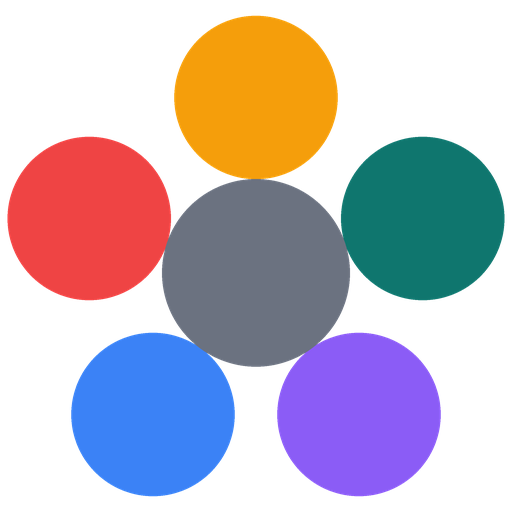
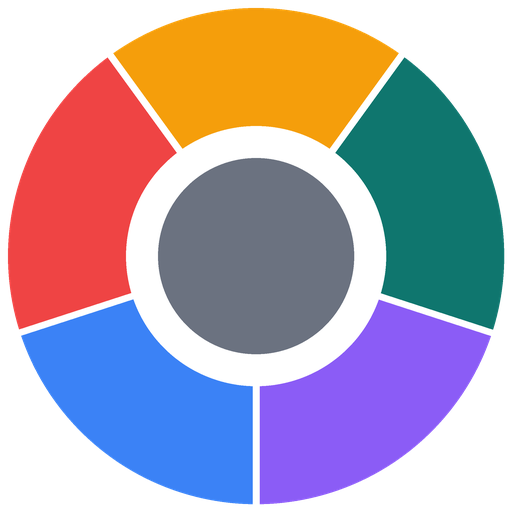
Grow Panel v1.98: logotipo nuevo (trozos de colores como Chrome, con círculo blanco)
- Icono, favicon, logo de la cabecera, sello «with Grow Panel», botón de las apps y SELLO.md

Changed region(s): [[0.0, 0.0, 1.0, 1.0]]

diff --git a/index.html b/index.html
@@ -296,7 +296,7 @@ body.embed .top,body.embed .guia,body.embed details,body.embed .pie,body.embed .
 </style>
 </head>
 <body>
-<div class="titulo-app" aria-hidden="true"><span class="flor"><svg viewBox="0 0 512 512"><circle cx="256" cy="107.5" r="69.1" fill="#f59e0b"/><circle cx="397.2" cy="210.1" r="69.1" fill="#0f766e"/><circle cx="343.3" cy="376.1" r="69.1" fill="#8b5cf6"/><circle cx="168.7" cy="376.1" r="69.1" fill="#3b82f6"/><circle cx="114.8" cy="210.1" r="69.1" fill="#ef4444"/><circle cx="256" cy="256" r="79.4" fill="#6b7280"/></svg></span>Grow Panel</div>
+<div class="titulo-app" aria-hidden="true"><span class="flor"><svg viewBox="0 0 512 512"><path d="M256 256L110.2 55.4A248 248 0 0 1 401.8 55.4Z" fill="#f59e0b"/><path d="M256 256L401.8 55.4A248 248 0 0 1 491.9 332.6Z" fill="#0f766e"/><path d="M256 256L491.9 332.6A248 248 0 0 1 256.0 504.0Z" fill="#8b5cf6"/><path d="M256 256L256.0 504.0A248 248 0 0 1 20.1 332.6Z" fill="#3b82f6"/><path d="M256 256L20.1 332.6A248 248 0 0 1 110.2 55.4Z" fill="#ef4444"/><path d="M256 256L109.1 53.7" stroke="#fff" stroke-width="7" fill="none"/><path d="M256 256L402.9 53.7" stroke="#fff" stroke-width="7" fill="none"/><path d="M256 256L493.8 333.3" stroke="#fff" stroke-width="7" fill="none"/><path d="M256 256L256.0 506.0" stroke="#fff" stroke-width="7" fill="none"/><path d="M256 256L18.2 333.3" stroke="#fff" stroke-width="7" fill="none"/><circle cx="256" cy="256" r="130" fill="#fff"/><circle cx="256" cy="256" r="98" fill="#6b7280"/></svg></span>Grow Panel</div>
 <main>
   <div class="top">
     <h1 class="oculto">Grow Panel</h1>
@@ -331,7 +331,7 @@ body.embed .top,body.embed .guia,body.embed details,body.embed .pie,body.embed .
 
   <div class="visor" id="visor" hidden>
     <div class="visor-barra">
-      <button class="visor-volver" id="visor-volver" type="button"><svg viewBox="0 0 512 512" aria-hidden="true"><circle cx="256" cy="107.5" r="69.1" fill="#f59e0b"/><circle cx="397.2" cy="210.1" r="69.1" fill="#0f766e"/><circle cx="343.3" cy="376.1" r="69.1" fill="#8b5cf6"/><circle cx="168.7" cy="376.1" r="69.1" fill="#3b82f6"/><circle cx="114.8" cy="210.1" r="69.1" fill="#ef4444"/><circle cx="256" cy="256" r="79.4" fill="#6b7280"/></svg>← Volver a Grow Panel</button>
+      <button class="visor-volver" id="visor-volver" type="button"><svg viewBox="0 0 512 512" aria-hidden="true"><path d="M256 256L110.2 55.4A248 248 0 0 1 401.8 55.4Z" fill="#f59e0b"/><path d="M256 256L401.8 55.4A248 248 0 0 1 491.9 332.6Z" fill="#0f766e"/><path d="M256 256L491.9 332.6A248 248 0 0 1 256.0 504.0Z" fill="#8b5cf6"/><path d="M256 256L256.0 504.0A248 248 0 0 1 20.1 332.6Z" fill="#3b82f6"/><path d="M256 256L20.1 332.6A248 248 0 0 1 110.2 55.4Z" fill="#ef4444"/><path d="M256 256L109.1 53.7" stroke="#fff" stroke-width="7" fill="none"/><path d="M256 256L402.9 53.7" stroke="#fff" stroke-width="7" fill="none"/><path d="M256 256L493.8 333.3" stroke="#fff" stroke-width="7" fill="none"/><path d="M256 256L256.0 506.0" stroke="#fff" stroke-width="7" fill="none"/><path d="M256 256L18.2 333.3" stroke="#fff" stroke-width="7" fill="none"/><circle cx="256" cy="256" r="130" fill="#fff"/><circle cx="256" cy="256" r="98" fill="#6b7280"/></svg>← Volver a Grow Panel</button>
       <span class="visor-nombre" id="visor-nombre"></span>
     </div>
     <iframe class="visor-marco" id="visor-marco" title="App"></iframe>
@@ -340,7 +340,7 @@ body.embed .top,body.embed .guia,body.embed details,body.embed .pie,body.embed .
 
   <div class="pie sellos">
     <a class="pi-seal" href="https://practicaintegral.club" target="_blank" rel="noopener">by Práctica Integral</a>
-    <a class="gp-seal" href="https://practicaintegral.club/grow-panel/" target="_blank" rel="noopener"><svg viewBox="0 0 512 512" aria-hidden="true"><circle cx="256" cy="107.5" r="69.1" fill="#f59e0b"/><circle cx="397.2" cy="210.1" r="69.1" fill="#0f766e"/><circle cx="343.3" cy="376.1" r="69.1" fill="#8b5cf6"/><circle cx="168.7" cy="376.1" r="69.1" fill="#3b82f6"/><circle cx="114.8" cy="210.1" r="69.1" fill="#ef4444"/><circle cx="256" cy="256" r="79.4" fill="#6b7280"/></svg>with Grow Panel</a>
+    <a class="gp-seal" href="https://practicaintegral.club/grow-panel/" target="_blank" rel="noopener"><svg viewBox="0 0 512 512" aria-hidden="true"><path d="M256 256L110.2 55.4A248 248 0 0 1 401.8 55.4Z" fill="#f59e0b"/><path d="M256 256L401.8 55.4A248 248 0 0 1 491.9 332.6Z" fill="#0f766e"/><path d="M256 256L491.9 332.6A248 248 0 0 1 256.0 504.0Z" fill="#8b5cf6"/><path d="M256 256L256.0 504.0A248 248 0 0 1 20.1 332.6Z" fill="#3b82f6"/><path d="M256 256L20.1 332.6A248 248 0 0 1 110.2 55.4Z" fill="#ef4444"/><path d="M256 256L109.1 53.7" stroke="#fff" stroke-width="7" fill="none"/><path d="M256 256L402.9 53.7" stroke="#fff" stroke-width="7" fill="none"/><path d="M256 256L493.8 333.3" stroke="#fff" stroke-width="7" fill="none"/><path d="M256 256L256.0 506.0" stroke="#fff" stroke-width="7" fill="none"/><path d="M256 256L18.2 333.3" stroke="#fff" stroke-width="7" fill="none"/><circle cx="256" cy="256" r="130" fill="#fff"/><circle cx="256" cy="256" r="98" fill="#6b7280"/></svg>with Grow Panel</a>
   </div>
 </main>
 <nav class="abajo" aria-label="Secciones de Grow Panel"><div class="abajo-in">

diff --git a/grow-panel-boton.js b/grow-panel-boton.js
@@ -161,7 +161,7 @@
     };
   }
 
-  const FLOR = '<svg viewBox="0 0 512 512" aria-hidden="true" style="width:18px;height:18px;display:block"><circle cx="256" cy="107.5" r="69.1" fill="#f59e0b"/><circle cx="397.2" cy="210.1" r="69.1" fill="#0f766e"/><circle cx="343.3" cy="376.1" r="69.1" fill="#8b5cf6"/><circle cx="168.7" cy="376.1" r="69.1" fill="#3b82f6"/><circle cx="114.8" cy="210.1" r="69.1" fill="#ef4444"/><circle cx="256" cy="256" r="79.4" fill="#6b7280"/></svg>';
+  const FLOR = '<svg viewBox="0 0 512 512" aria-hidden="true" style="width:18px;height:18px;display:block"><path d="M256 256L110.2 55.4A248 248 0 0 1 401.8 55.4Z" fill="#f59e0b"/><path d="M256 256L401.8 55.4A248 248 0 0 1 491.9 332.6Z" fill="#0f766e"/><path d="M256 256L491.9 332.6A248 248 0 0 1 256.0 504.0Z" fill="#8b5cf6"/><path d="M256 256L256.0 504.0A248 248 0 0 1 20.1 332.6Z" fill="#3b82f6"/><path d="M256 256L20.1 332.6A248 248 0 0 1 110.2 55.4Z" fill="#ef4444"/><path d="M256 256L109.1 53.7" stroke="#fff" stroke-width="7" fill="none"/><path d="M256 256L402.9 53.7" stroke="#fff" stroke-width="7" fill="none"/><path d="M256 256L493.8 333.3" stroke="#fff" stroke-width="7" fill="none"/><path d="M256 256L256.0 506.0" stroke="#fff" stroke-width="7" fill="none"/><path d="M256 256L18.2 333.3" stroke="#fff" stroke-width="7" fill="none"/><circle cx="256" cy="256" r="130" fill="#fff"/><circle cx="256" cy="256" r="98" fill="#6b7280"/></svg>';
 
   function destino() {
     const f = leer(CLAVE_F, {})[id];

diff --git a/sw.js b/sw.js
@@ -1,5 +1,5 @@
 // Service worker de Grow Panel: permite instalarlo y abrirlo sin conexión (datos siempre frescos si hay red)
-const CACHE = "growpanel-v1.97";
+const CACHE = "growpanel-v1.98";
 const BASE = ["./", "./index.html", "./grow-panel.js", "./manifest.json", "./logo.svg", "./logo-oscuro.svg",
   "./icono.svg", "./icono-192.png", "./icono-512.png", "./icono-32.png", "./icono-180.png", "./icono-gp-192.png", "./icono-gp-512.png", "./icono-gp-180.png"];
 // cache:"reload": la copia sin conexión se baja del servidor, nunca de la caché del navegador

diff --git a/grow-panel.js b/grow-panel.js
@@ -16,7 +16,7 @@
    ↑ ↓ del teclado) se cambia el orden. Se guarda en este navegador (localStorage «growpanel.orden»).
 */
 (() => {
-  const VERSION = 'v1.97';
+  const VERSION = 'v1.98';
   const BASE = new URL('.', document.currentScript ? document.currentScript.src : location.href).href;
   const ESTADOS = {
     ok: 'Todo bien', aviso: 'Con avisos', error: 'Con errores', pausa: 'En pausa', mudo: 'Sin noticias'

diff --git a/SELLO.md b/SELLO.md
@@ -10,7 +10,7 @@ Los dos se abren en una pestaña nueva. Los colores de borde y de texto se adapt
 ```html
 <div class="sellos">
   <a class="pi-seal" href="https://practicaintegral.club" target="_blank" rel="noopener">by Práctica Integral</a>
-  <a class="gp-seal" href="https://practicaintegral.club/grow-panel/" target="_blank" rel="noopener"><svg viewBox="0 0 512 512" aria-hidden="true"><circle cx="256" cy="107.5" r="69.1" fill="#f59e0b"/><circle cx="397.2" cy="210.1" r="69.1" fill="#0f766e"/><circle cx="343.3" cy="376.1" r="69.1" fill="#8b5cf6"/><circle cx="168.7" cy="376.1" r="69.1" fill="#3b82f6"/><circle cx="114.8" cy="210.1" r="69.1" fill="#ef4444"/><circle cx="256" cy="256" r="79.4" fill="#6b7280"/></svg>with Grow Panel</a>
+  <a class="gp-seal" href="https://practicaintegral.club/grow-panel/" target="_blank" rel="noopener"><svg viewBox="0 0 512 512" aria-hidden="true"><path d="M256 256L110.2 55.4A248 248 0 0 1 401.8 55.4Z" fill="#f59e0b"/><path d="M256 256L401.8 55.4A248 248 0 0 1 491.9 332.6Z" fill="#0f766e"/><path d="M256 256L491.9 332.6A248 248 0 0 1 256.0 504.0Z" fill="#8b5cf6"/><path d="M256 256L256.0 504.0A248 248 0 0 1 20.1 332.6Z" fill="#3b82f6"/><path d="M256 256L20.1 332.6A248 248 0 0 1 110.2 55.4Z" fill="#ef4444"/><path d="M256 256L109.1 53.7" stroke="#fff" stroke-width="7" fill="none"/><path d="M256 256L402.9 53.7" stroke="#fff" stroke-width="7" fill="none"/><path d="M256 256L493.8 333.3" stroke="#fff" stroke-width="7" fill="none"/><path d="M256 256L256.0 506.0" stroke="#fff" stroke-width="7" fill="none"/><path d="M256 256L18.2 333.3" stroke="#fff" stroke-width="7" fill="none"/><circle cx="256" cy="256" r="130" fill="#fff"/><circle cx="256" cy="256" r="98" fill="#6b7280"/></svg>with Grow Panel</a>
 </div>
 ```
 
